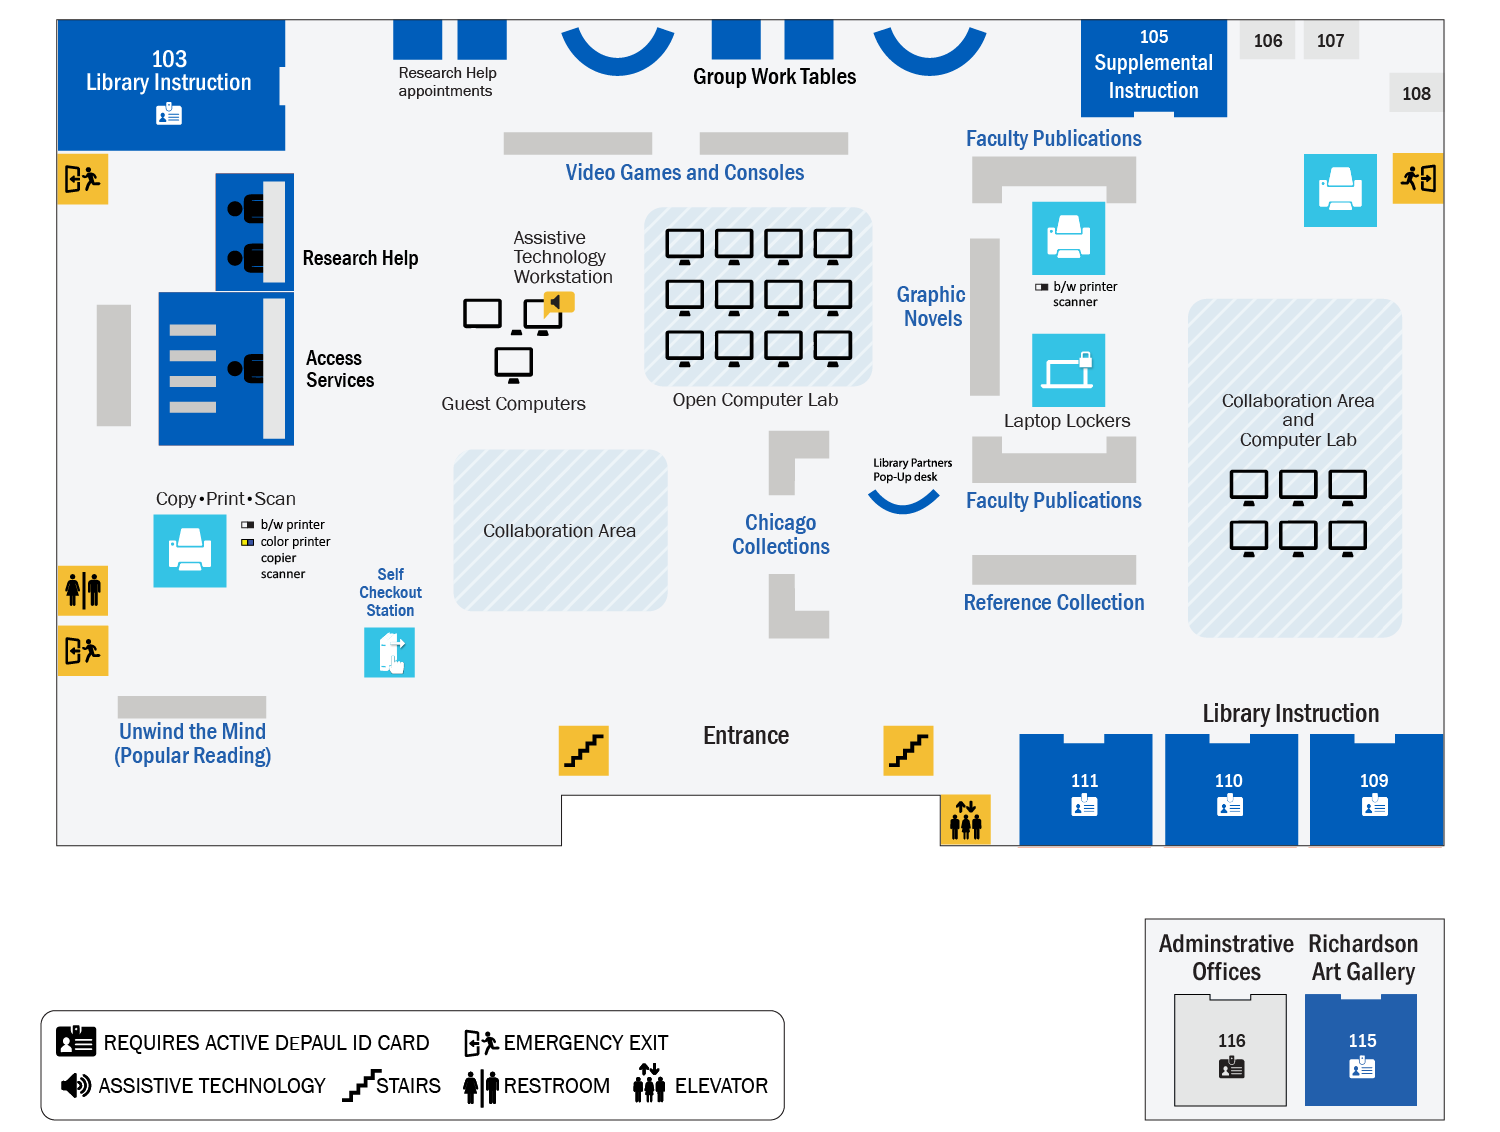
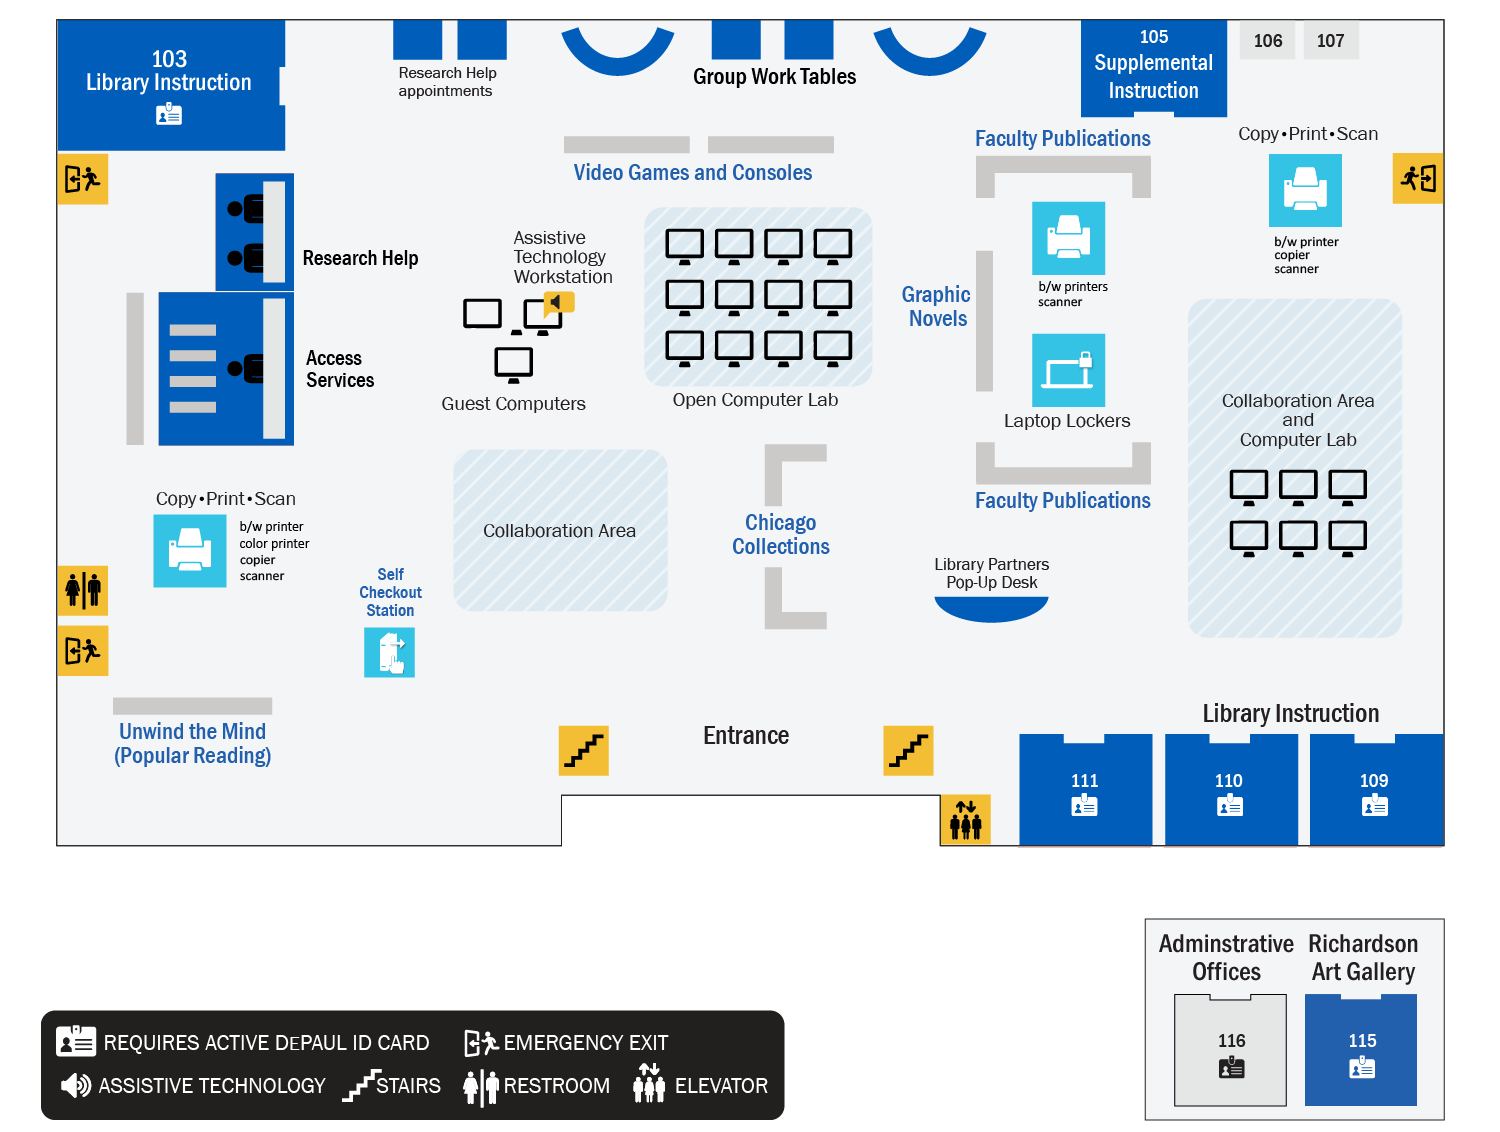
add popup desk + more

diff --git a/js/wayfinding.js b/js/wayfinding.js
@@ -22,22 +22,24 @@
 		"printers":				["", ["1_printcenter.png", "2_printcenter.png"]],
 		"reference":				["", ["1_reference.png", "2_reference.png"]],
 		"quietstudyzones": 		["<strong>Quiet Study Zones</strong><br/><br/>The third and fourth floors are for quiet study.  Whispering only--talking and group work are not permitted. ", ["3_quietstudyzone.png", "4_quietstudyzone.png"]],
-		"1_admin": 			["", ["1_admin.png"]],
-		"1_gallery": 	["<b>Richardson Art Gallery</b><br/><br/>The gallery showcases student and faculty work from The Art School at DePaul.", ["1_gallery.png"]],
 		"1_103": 			["", ["1_103.png"]],
 		"1_109": 			["", ["1_109.png"]],
 		"1_110": 			["", ["1_110.png"]],
 		"1_111": 			["", ["1_111.png"]],
+		"1_admin": 			["", ["1_admin.png"]],
         "1_chicago": 			["", ["1_chicago.png"]],
 		"1_circulationdesk": 	["<b>Access Services</b><br/><br/>Come to Access Services to check out your items, pay a fine, or access a book on reserve for your class. We also have phone chargers, calculators, video games and consoles and more available to check out with your DePaul ID card.", ["1_circulationdesk.png"]],
 		"1_facultypublications": ["", ["1_facultypublications.png"]],
 
+		"1_gallery": 	["<b>Richardson Art Gallery</b><br/><br/>The gallery showcases student and faculty work from The Art School at DePaul.", ["1_gallery.png"]],
 		"1_graphicnovels": 		["", ["1_graphicnovels.png"]],
 		"guestcomputers":		["", ["1_guestcomputers.png","2_guestcomputers.png", "3_guestcomputers.png", "4_guestcomputers.png"]],
         "1_instruction": 		["<p><strong>Library Instruction</strong><br /><br />Library Instruction works with faculty to create customized research instruction sessions based on the needs of courses and assignments. The goal of the instruction program is to help students develop the critical thinking and information literacy skills necessary to conduct effective library research.</p>", ["1_instruction.png"]],
         "1_laptoplockers": 		["", ["1_laptoplockers.png"]],
+		"1_popup": 	["<b>Library Partners Pop-Up Desk</b><br/><br/>Ask us about reserving this space for your organization!", ["1_popup.png"]],
         "1_recreational": 		["", ["1_recreational.png"]],
         "1_researchhelpdesk": 		["<b>Research Help Desk</b><br/><br/>Research Librarians and Peer Research Tutors help you explore your topic and show you how to search effectively for books, articles and other information (like statistics) in library databases and the web. <br><br>Researchers can ask for in-depth help, or just get assistance finding a single item.", ["1_researchhelpdesk.png"]],
+        "1_reserves": 		["", ["1_reserves.png"]],
 		"1_supplemental": ["<p><strong>Supplemental Instruction</strong><br><br>Supplemental Instruction aims to help students successfully complete historically difficult classes through weekly&nbsp;peer-assisted&nbsp;study sessions. It is offered free program offered by the Center for Teaching and Learning.</p>", ["1_supplemental.png"]],
         "1_videogames": 		["<p><strong>Video Games &amp; Consoles</strong><br /><br />We have a number of gaming consoles and video games available for checkout at both the Richardson and Loop Libraries. Visit the catalog to see the current list of all consoles, video games, and their availability.</p>", ["1_videogames.png"]],		
 		"2_bathroomgn": 			["", ["2_bathroomgn.png"]],

diff --git a/includes/info-directory.html b/includes/info-directory.html
@@ -19,6 +19,7 @@
                 <li class="li"><a href="#/" onClick="show_info_panel('4_audiovideo');">Media Room</a></li>
                 <li class="li"><a href="#/" onClick="show_info_panel('2_studios');">Media Studios</a> </li>
                 <li class="li"><a href="#/" onClick="show_info_panel('onlineclass');">Online Class Zones</a></li>
+                <li class="li"><a href="#/" onClick="show_info_panel('1_popup');">Pop-Up Desk</a></li>
                 <li class="li"><a href="#/" onClick="show_info_panel('quietstudyzones');">Quiet Study Zones</a> </li>
                 <li class="li"><a href="#/" onClick="show_info_panel('2_researchinformation');">Research & Instruction Services (Room 211)</a> </li>
                 <li class="li"><a href="#/" onClick="show_info_panel('2_bathroomgn');">Restroom - Gender Neutral</a> </li>
@@ -74,13 +75,13 @@
                 <li class="li"><a href="#/" onClick="show_info_panel('3_callnumbers0699');">Books (Call Numbers 0-699)</a> </li>
                 <li class="li"><a href="#/" onClick="show_info_panel('4_callnumbers700999');">Books (Call Numbers 700-999)</a> </li>
                 <li class="li"><a href="#/" onClick="show_info_panel('1_chicago');">Chicago Collection</a> </li>
+                <li class="li"><a href="#/" onClick="show_info_panel('1_reserves');">Course Reserves</a> </li>
                 <li class="li"><a href="#/" onClick="show_info_panel('2_curriculummaterials');">Curriculum Materials</a> </li>
                 <li class="li"><a href="#/" onClick="show_info_panel('1_facultypublications');">Faculty Publications</a> </li>
                 <li class="li"><a href="#/" onClick="show_info_panel('1_graphicnovels');">Graphic Novels</a> </li>
                 <li class="li"><a href="#/" onClick="show_info_panel('2_audiovisual');">Media (CDs, Videos, Microforms)</a> </li>
                 <li class="li"><a href="#/" onClick="show_info_panel('4_musicscores');">Music Scores</a> </li>
                 <li class="li"><a href="#/" onClick="show_info_panel('2_periodicals');">Periodicals</a> </li>
-                <li class="li"><a href="#/" onClick="show_info_panel('1_readyreference');">Reference Desk</a> </li>
                 <li class="li"><a href="#/" onClick="show_info_panel('reference');">Reference Collection</a> </li>
                 <li class="li"><a href="#/" onClick="show_info_panel('3_specialcollections');">Special Collections</a> </li>
                 <li class="li"><a href="#/" onClick="show_info_panel('1_recreational');">Unwind the Mind (Popular Reading)</a> </li>

diff --git a/maps.php b/maps.php
@@ -24,6 +24,7 @@
             <area shape="rect" coords="1172,636,1444,802"  href="#/" title="rooms 109-11" alt="Instruction Rooms 109-110" id="1_instruction">
             <area shape="rect" coords="1304,878,1434,1101"  href="#/" title="gallery" alt="Richardson Art Gallery" id="1_gallery">            
             <area shape="rect" coords="151,310,385,445"  href="#/" title="accessservices" alt="Access Services" id="1_circulationdesk">
+            <area shape="rect" coords="921,548,1074,639" href="#/" title="popup" alt="Pop Up Desk" id="1_popup">
             <area shape="rect" coords="220,181,428,289" href="#/" title="researchhelp" alt="Research Help Desk" id="1_researchhelpdesk">
             <area shape="rect" coords="384,38,510,121" href="#/" title="researchhelp" alt="Research Help Desk" id="1_researchhelpdesk">
             <area shape="rect" coords="542,35,992,121" href="#/" title="groupstudy1" alt="Group Study Tables" id="groupstudyrooms">
